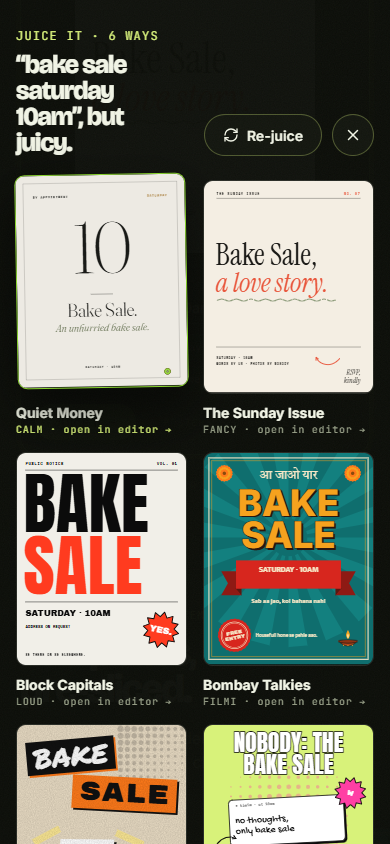
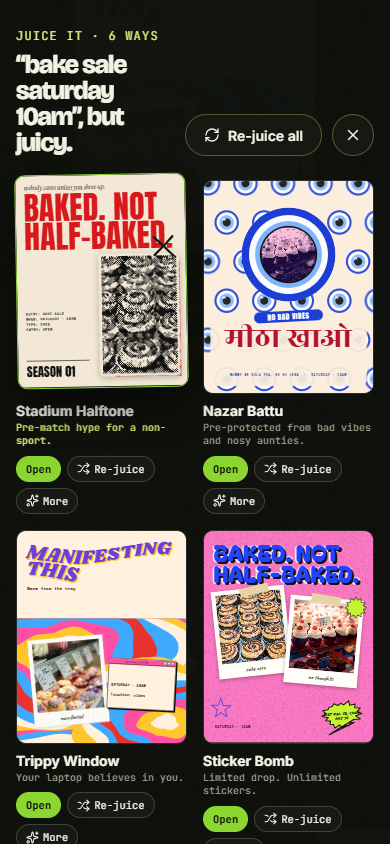
Phase 7: verify, preview deploy, REVIEW.md round 3

diff --git a/REVIEW.md b/REVIEW.md
@@ -1,7 +1,7 @@
 # Kiwiw `juice-v2` — overnight REVIEW
 
 Branch: `juice-v2` (main and production untouched).
-Preview: **https://kiwiw-b6oxkmx7s-kartavyaas-projects.vercel.app**
+Preview: **https://kiwiw-f3k7pcu44-kartavyaas-projects.vercel.app**
 (Vercel protects previews on the hobby plan, so log in to Vercel to view it. Production at kiwiw.vercel.app is unchanged.)
 
 > Status: all six phases done and committed (one commit per phase). Typecheck and build pass. Zero console errors at 1366×768, 1920×1080 and 390px.
@@ -105,3 +105,86 @@ One input, six posters, no API key. The parser splits the line into headline, da
 3. **Roast leaderboard / share card**: export the roast score card as an image ("My poster scored 34. Kiwi-adjacent.").
 4. **Magic Resize for real**: reflow one design to post, story and banner using the same `fitText` + layout roles Juice It already uses.
 5. **Brand kit from a photo**: pick a palette and font pair from an uploaded image, then apply it to any template in one click.
+
+---
+
+# Round 3: Style DNA, effects engine, Juice It 2.0 (overnight, 3 Nov)
+
+Preview: **https://kiwiw-f3k7pcu44-kartavyaas-projects.vercel.app** (Vercel preview, behind login; production untouched, main untouched).
+
+## Phase 1 · Style DNA
+`STYLE_DNA.md` defines 10 recipes taken from your board: **Nazar Battu, Tapri Print, Stadium Halftone, Brutal Grid, Swiss Drop, Trippy Window, Neo Brutal Pop, 8-Bit Flex, Sticker Bomb, Glossy Bloom**. Each recipe has a palette, a font pairing, a layout grammar, effects, stickers, a copy tone, 3 headlines and a never-rule. I borrowed techniques only: no celebrity, club, car brand, soft-drink brand or character from the board appears anywhere. Photos are 29 Pexels shots, bundled and credited in LICENSES.md. Six new Google Fonts: Rozha One, Yatra One, Khand, Press Start 2P, Shrikhand, Bagel Fat One.
+
+The Pinterest link couldn't be fetched (the scraper refuses Pinterest), so I worked from your written summary plus the board screenshots you pasted.
+
+## Phase 2 · Effects engine
+- **Image effects:** halftone (dot size, can invert), duotone, posterize and B&W punch. They render on a canvas and are cached, so exports match the screen.
+- **Frames:** postage stamp with real perforations, torn paper, polaroid, retro OS window, truck-art border and evil-eye ring.
+- **Finish:** a sticker cutout border and paper grain clipped to the element.
+- **Type:** wave (safe for Devanagari matras), arch, outline + hard shadow, stacked caps, glossy bubble, and Devanagari display faces.
+- **Backgrounds:** warped checkerboard, psychedelic swirl, halftone gradient, sunburst and pixel grid.
+- **Right panel:** an Effects gallery where every tile is a live render of *your selected element* with that effect applied. Page backgrounds appear when nothing is selected.
+
+![Effects showcase](docs/review/effects-showcase.png)
+![Effects panel](docs/review/effects-panel.png)
+
+## Phase 3 · Juice It 2.0
+- **30 layouts:** each recipe has 3 layout grammars, built on the effects engine.
+- **One juice:** you get 6 *different* recipes.
+- **No repeats:** the session tracks every recipe+layout it has shown. **Re-juice all** brings unseen recipes first and never repeats a combination.
+- **Per card:** **Open** · **Re-juice** (a different recipe in that slot) · **More like this** (same recipe, with a new layout, photo and copy angle). Each card shows the recipe name and a one-line joke.
+- **Copy without an API:** banks for 10 topics, with Hindi and Hinglish lines ("BAKED. NOT HALF-BAKED.", "गरम गरम", "Diet kal se, cake aaj se", "नौकरी हाज़िर है"). With an OpenAI key, the AI rewrites the copy in each recipe's tone.
+- **Photos:** picked from the bundled Pexels set by keyword, with the recipe's effect applied.
+
+**Quality gate: 49/60 post-worthy.** I ran the 10 test lines through 4 critique-and-fix rounds. Sheets: `docs/review/juice-gate/q00…q09.jpg`. The 11 that still fail:
+- Swiss Drop layout 1 with long words ("STARTUP", "DIWALI"): the cropped letters turn into a jumble (2).
+- 8-Bit Flex layout 3: the headline stays small for long topics (2).
+- Trippy Window layout 3: the top half feels empty when the headline is short (2).
+- Stadium Halftone layout 3: the inverted halftone reads as noise on dark photos (2).
+- Glossy Bloom layout 1: the paragraph is cramped on long lines (1).
+- Brutal Grid layout 2: the photo crop is weak on landscape photos (1).
+- Neo Brutal Pop layout 2: the small photo is posterized into mush (1).
+
+**12 best results:**
+![Best 12](docs/review/juice-best12.jpg)
+
+| Overlay | Re-juice all (new recipes) |
+| --- | --- |
+| ![](docs/review/juice2-overlay.png) | ![](docs/review/juice2-rejuice.png) |
+
+## Phase 4 · 20 hero templates
+There are 2 heroes per recipe. One is a poster from a Juice layout with curated copy. The other is hand-built as a story, post, YouTube thumbnail or LinkedIn banner. Every hero uses at least 2 effects. They're built with real font metrics and frozen to `heroes.json`. **16 of the old 24 templates were retired** because they looked flat next to these. The 8 I kept are Basement Rave, Long Read, Garage Gig, Fest Poster, Chai Menu, Investor Bait, Clickbait But Honest and the Résumé, which is the only one in the Resumes category. That leaves 28 templates.
+
+**Best 8 heroes:** Nimbu Mirchi Fest Poster, Tapri Rate List, Nazar Na Lage Story, Shaadi Soft Launch, main_character.exe, Bake Sale Limited Drop, Open To Work Loudly, Boss Fight: My Inbox.
+
+![Template wall](docs/review/templates-wall.png)
+![Editor with a hero](docs/review/editor-hero.png)
+
+## Phase 6 · Editor chrome
+This was done in the previous run: 56px rail, tabs, chips, masonry cards, page shadow, zoom pill, real layer thumbnails and human names. I re-verified it here.
+
+## Phase 7 · Verification
+- `tsc` is clean and `npm run build` exits 0.
+- I tested the production build in headless Chrome: landing page, Juice overlay and editor (with a hero template and an element selected) at 1366×768, 1920×1080 and 390px. **0 console errors and 0 warnings.**
+
+![Landing 1366](docs/review/landing-1366.png) ![Juice on a phone](docs/review/juice-390.png)
+
+## Bold calls (round 3)
+- **I retired 16 of the original 24 templates.** Keeping them next to the heroes made the library feel uneven.
+- **Templates are frozen JSON.** Measuring fonts at import time gives wrong sizes, so templates are built in a real browser and saved. `node scripts/dump-heroes.mjs` regenerates them.
+- **The Photos tab uses the bundled Pexels set without a key.** No more random placeholder photos in demos.
+- **Nazar Battu leads with Devanagari headlines**, with English as the small kicker.
+- **Full-bleed textures got cutouts.** The nimbu-mirchi gets a cream sticker border so it pops against the stripes.
+
+## Unfinished
+- **Phase 5 (Landing v3)** is not built: no Style DNA wall, before/after slider or draggable template wall. The landing hero does already run the new Juice It, with the kiwi burst and six recipes. This was last in your priority order.
+- **11 of the 60 Juice results** are still below the bar (see the list above).
+- **Effects untested in some places:** the image effects re-render on the CPU, so very large uploads (over 4k) take a second, and PNG export with grain and cutout isn't verified in Safari.
+- **AI paths untested:** the per-recipe AI copy is untested without a key.
+
+## Top 5 next ideas
+1. Landing v3: a Style DNA wall where hovering any recipe re-renders *your* line in that style live (the engine already supports it).
+2. "Juice my template": run any open design through the 10 recipes, keeping its copy.
+3. Cutout with real subject masking (background removal) for the Stadium and Sticker Bomb recipes.
+4. A recipe editor: tweak a recipe's palette and fonts and save it as "My DNA".
+5. An animated export (MP4 or GIF) of the kiwi burst plus the chosen poster, for LinkedIn.
